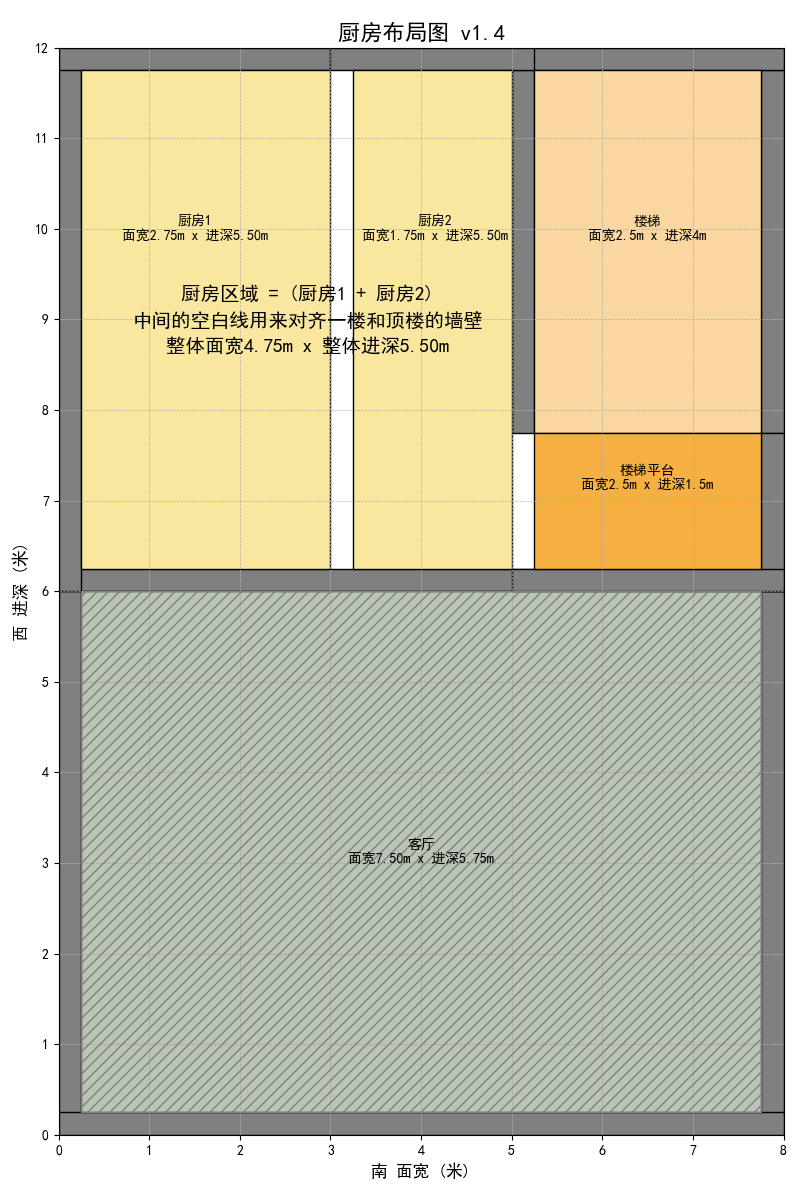
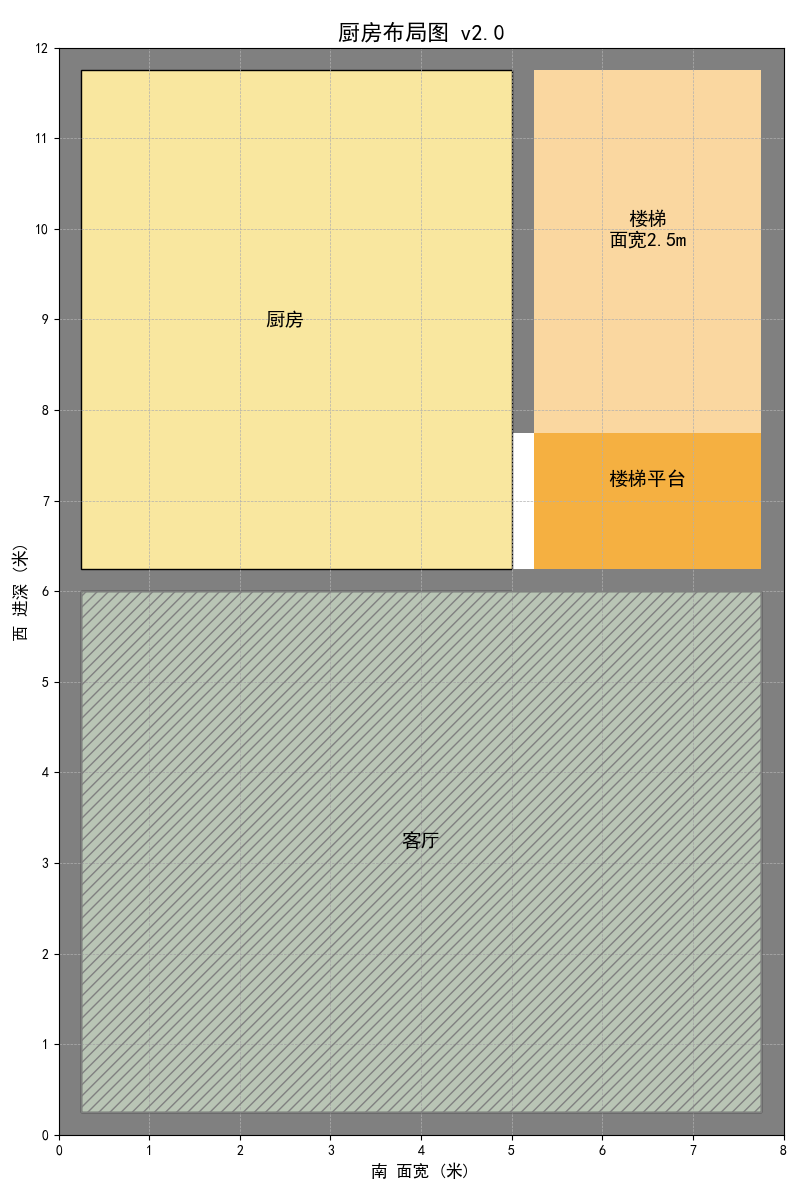
perf(floor_1_5nd.py): update to v2.0

diff --git a/floor_1_5nd.py b/floor_1_5nd.py
@@ -40,9 +40,7 @@ ax.add_patch(
     patches.Rectangle((wall_thickness, wall_thickness), 8 - 2 * wall_thickness, 6.5 - 3 * wall_thickness,
                       facecolor=colors['客厅'], edgecolor='black', label='客厅'))
 # 调整文字位置使其居中
-ax.text(4, (6.5 - 3 * wall_thickness) / 2 + wall_thickness,
-        f"客厅\n面宽{8 - 2 * wall_thickness:.2f}m x 进深{6.5 - 3 * wall_thickness:.2f}m",
-        ha='center', va='center', fontsize=10)
+ax.text(4, 3.25, f"客厅", ha='center', va='center', fontsize=14)
 # 添加一个半透明的矩形表示阴影
 shadow = patches.Rectangle((wall_thickness, wall_thickness), 8 - 2 * wall_thickness, 6.5 - 3 * wall_thickness,
                            alpha=0.3, facecolor='gray', edgecolor='none', zorder=2)
@@ -57,41 +55,24 @@ draw_wall(ax, 5, 8 - wall_thickness, 2.5 + 2 * wall_thickness, 4 + wall_thicknes
           exclude=['bottom'])
 ax.add_patch(
     patches.Rectangle((5.5 - wall_thickness, 8 - wall_thickness), 2.5, 4,
-                      facecolor=colors['楼梯'], edgecolor='black', label='楼梯'))
+                      facecolor=colors['楼梯'], label='楼梯'))
 # 调整文字位置使其居中
-ax.text(6.5, 8 + 4 / 2, "楼梯\n面宽2.5m x 进深4m", ha='center', va='center', fontsize=10)
+ax.text(6.5, 8 + 4 / 2, "楼梯\n面宽2.5m", ha='center', va='center', fontsize=14)
 
-# 调整文字位置使其居中
-ax.text(5.5 / 2, 9,
-        f"厨房区域 = (厨房1 + 厨房2)\n中间的空白线用来对齐一楼和顶楼的墙壁\n整体面宽{5.5 - 3 * wall_thickness:.2f}m x 整体进深{5.5:.2f}m",
-        ha='center', va='center',
-        fontsize=14,
-        fontweight='bold', linespacing=1.5)
-
-# 厨房1（左侧）
-draw_wall(ax, 0, 6, 3, 6, adjacent=['bottom', 'right'])
-ax.add_patch(patches.Rectangle((wall_thickness, 6 + wall_thickness), 3 - wall_thickness, 6 - 2 * wall_thickness,
+# 厨房（左侧）
+draw_wall(ax, 0, 6, 5, 6, adjacent=['bottom', 'right'])
+ax.add_patch(patches.Rectangle((wall_thickness, 6 + wall_thickness), 5 - wall_thickness, 6 - 2 * wall_thickness,
                                facecolor=colors['厨房'], edgecolor='black', label='厨房'))
 # 文字水平居中
-ax.text(1.5, 10, f"厨房1\n面宽{3 - wall_thickness:.2f}m x 进深{6 - 2 * wall_thickness:.2f}m",
-        ha='center', va='center', fontsize=10)
-
-# 厨房2（中间）
-draw_wall(ax, 3, 6, 2.5 - wall_thickness, 6, exclude=['left', 'right', 'bottom'])
-ax.add_patch(
-    patches.Rectangle((3 + wall_thickness, 6 + wall_thickness), 2.5 - 3 * wall_thickness, 6 - 2 * wall_thickness,
-                      facecolor=colors['厨房'], edgecolor='black', label='厨房'))
-# 文字水平居中
-ax.text(4.15, 10, f"厨房2\n面宽{2.5 - 3 * wall_thickness:.2f}m x 进深{6 - 2 * wall_thickness:.2f}m",
-        ha='center', va='center', fontsize=10)
+ax.text(2.5, 9, f"厨房", ha='center', va='center', fontsize=14)
 
 # 楼梯平台：宽2.5米，长1.5米
 draw_wall(ax, 5, 6, 3, 1.5 + wall_thickness * 2,
           exclude=['top', 'left'], adjacent=['top', 'left'])
 ax.add_patch(
     patches.Rectangle((5 + wall_thickness, 6 + wall_thickness), 3 - 2 * wall_thickness, 1.5,
-                      facecolor=colors['楼梯平台'], edgecolor='black', label='楼梯平台'))
-ax.text(6.5, 7.25, f"楼梯平台\n面宽{3 - 2 * wall_thickness}m x 进深1.5m", ha='center', va='center', fontsize=10)
+                      facecolor=colors['楼梯平台'], label='楼梯平台'))
+ax.text(6.5, 7.25, f"楼梯平台", ha='center', va='center', fontsize=14)
 
 # 显示坐标轴标签
 plt.xlabel("南 面宽 (米)", fontsize=12)
